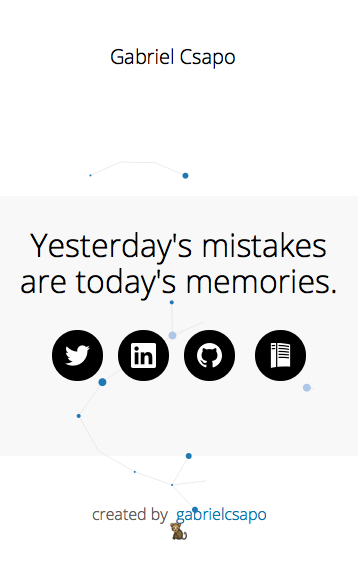
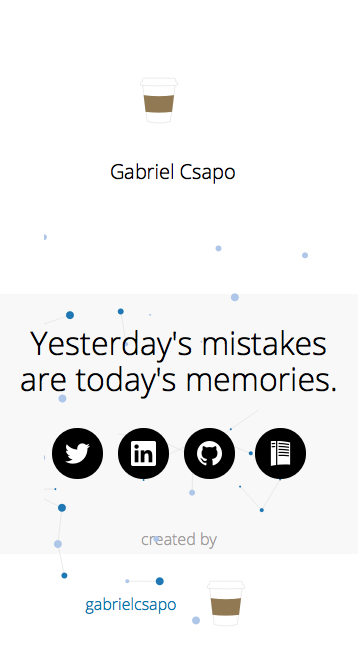
I am now a coffee cup, #spiritobject

diff --git a/index.html b/index.html
@@ -528,4 +528,4 @@ svg.directed-graph {
         height: 240px !important;
     }
 }
-</style></head></html><body><div class="navbar navbar-center"><div class="container"><div class="navbar-title"><span class="text-black" style="font-size:20px;font-weight:300;">Gabriel Csapo</span></div></div></div><div class="full-screen" style="position:relative;"><div class="text-center" style="width:100%;position: absolute;top: 50%;transform: translateY(-50%);"><div class="grid"><div class="col-1-12"></div><div class="col-10-12"><div class="quote-container" style="background-color: rgba(238, 238, 238, 0.44);padding: 10px;margin: auto;position: absolute;top: 0;left: 0;bottom: 0;right: 0;height: 170px;"><svg class="directed-graph"></svg><h1 class="text-black" style="font-weight:100;">Yesterday's mistakes are today's memories.</h1><div><a class="btn btn-black tooltip-top" href="https://twitter.com/gabriel_csapo" target="_blank" style="margin-right:5px;" data-tooltip="Twitter"><svg xmlns="http://www.w3.org/2000/svg" viewBox="0 0 16 16" fill-rule="evenodd" clip-rule="evenodd" stroke-linejoin="round" stroke-miterlimit="1.414" style="width:25px;height:25px;fill: white;"><path d="M16 3.038c-.59.26-1.22.437-1.885.517.677-.407 1.198-1.05 1.443-1.816-.634.375-1.337.648-2.085.795-.598-.638-1.45-1.036-2.396-1.036-1.812 0-3.282 1.468-3.282 3.28 0 .258.03.51.085.75C5.152 5.39 2.733 4.084 1.114 2.1.83 2.583.67 3.147.67 3.75c0 1.14.58 2.143 1.46 2.732-.538-.017-1.045-.165-1.487-.41v.04c0 1.59 1.13 2.918 2.633 3.22-.276.074-.566.114-.865.114-.21 0-.416-.02-.617-.058.418 1.304 1.63 2.253 3.067 2.28-1.124.88-2.54 1.404-4.077 1.404-.265 0-.526-.015-.783-.045 1.453.93 3.178 1.474 5.032 1.474 6.038 0 9.34-5 9.34-9.338 0-.143-.004-.284-.01-.425.64-.463 1.198-1.04 1.638-1.7z" fill-rule="nonzero"></path></svg></a><a class="btn btn-black tooltip-top" href="https://www.linkedin.com/in/gabrielcsapo" target="_blank" style="margin-right:5px;" data-tooltip="Linkedin"><svg xmlns="http://www.w3.org/2000/svg" viewBox="0 0 16 16" fill-rule="evenodd" clip-rule="evenodd" stroke-linejoin="round" stroke-miterlimit="1.414" style="width:25px;height:25px;fill: white;"><path d="M13.632 13.635h-2.37V9.922c0-.886-.018-2.025-1.234-2.025-1.235 0-1.424.964-1.424 1.96v3.778h-2.37V6H8.51V7.04h.03c.318-.6 1.092-1.233 2.247-1.233 2.4 0 2.845 1.58 2.845 3.637v4.188zM3.558 4.955c-.762 0-1.376-.617-1.376-1.377 0-.758.614-1.375 1.376-1.375.76 0 1.376.617 1.376 1.375 0 .76-.617 1.377-1.376 1.377zm1.188 8.68H2.37V6h2.376v7.635zM14.816 0H1.18C.528 0 0 .516 0 1.153v13.694C0 15.484.528 16 1.18 16h13.635c.652 0 1.185-.516 1.185-1.153V1.153C16 .516 15.467 0 14.815 0z" fill-rule="nonzero"></path></svg></a><a class="btn btn-black tooltip-top" href="https://www.github.com/gabrielcsapo" target="_blank" data-tooltip="Github"><svg xmlns="http://www.w3.org/2000/svg" viewBox="0 0 16 16" fill-rule="evenodd" clip-rule="evenodd" stroke-linejoin="round" stroke-miterlimit="1.414" style="width:25px;height:25px;fill: white;"><path d="M8 0C3.58 0 0 3.582 0 8c0 3.535 2.292 6.533 5.47 7.59.4.075.547-.172.547-.385 0-.19-.007-.693-.01-1.36-2.226.483-2.695-1.073-2.695-1.073-.364-.924-.89-1.17-.89-1.17-.725-.496.056-.486.056-.486.803.056 1.225.824 1.225.824.714 1.223 1.873.87 2.33.665.072-.517.278-.87.507-1.07-1.777-.2-3.644-.888-3.644-3.953 0-.873.31-1.587.823-2.147-.083-.202-.358-1.015.077-2.117 0 0 .672-.215 2.2.82.638-.178 1.323-.266 2.003-.27.68.004 1.364.092 2.003.27 1.527-1.035 2.198-.82 2.198-.82.437 1.102.163 1.915.08 2.117.513.56.823 1.274.823 2.147 0 3.073-1.87 3.75-3.653 3.947.287.246.543.735.543 1.48 0 1.07-.01 1.933-.01 2.195 0 .215.144.463.55.385C13.71 14.53 16 11.534 16 8c0-4.418-3.582-8-8-8"></path></svg></a><a class="btn btn-black tooltip-top" href="assets/resume_summer_2016.pdf" data-tooltip="Resume"><svg xmlns="http://www.w3.org/2000/svg" viewBox="0 0 16 16" fill-rule="evenodd" clip-rule="evenodd" stroke-linejoin="round" stroke-miterlimit="1.414" style="width:25px;height:25px;fill: white;"><path d="M1.837 15.955l.443-.095c.138-.03.275-.057.413-.084.212-.042.424-.083.637-.122.16-.03.32-.057.48-.085l.037-.007c.166-.028.332-.056.498-.082.27-.04.54-.08.81-.118V-.045H5.127c-.42.002-.837.01-1.256.024-.466.015-.933.04-1.398.073-.202.014-.404.03-.606.047l-.026.002h-.005v15.853zM5.94-.04v15.3c.574-.066 1.147-.122 1.722-.165 1.414-.107 2.833-.14 4.25-.1.752.022 1.502.065 2.25.128V.953C13.493.8 12.82.665 12.143.548 10.828.32 9.504.16 8.176.06c-.744-.054-1.49-.088-2.236-.1zm7.177 9.868l-.03-.003-.374-.04c-.933-.097-1.87-.162-2.806-.194-.938-.03-1.877-.028-2.815.005h-.03c-.03-.002-.06-.005-.09-.014-.067-.018-.13-.055-.178-.106-.084-.088-.123-.212-.104-.333.006-.038.02-.077.036-.113.018-.036.042-.07.07-.098.028-.03.06-.054.095-.073.037-.02.075-.033.115-.04.026-.006.033-.006.06-.007.127-.005.254-.01.38-.013.926-.024 1.85-.02 2.775.02.956.038 1.91.11 2.86.216l.095.01c.03.006.06.01.088.02.066.025.126.067.17.12.026.032.047.067.062.104.015.037.025.077.028.117.01.11-.03.222-.108.303-.028.03-.06.053-.095.073-.036.02-.074.033-.113.04-.026.006-.033.005-.06.008h-.03zm.024-1.808c-.03 0-.03 0-.06-.004-.124-.016-.248-.03-.373-.047-.933-.112-1.87-.193-2.807-.24-.937-.047-1.876-.06-2.814-.04l-.03-.002c-.03-.003-.06-.007-.09-.015-.067-.02-.128-.058-.176-.11-.027-.03-.05-.063-.067-.1-.052-.11-.05-.24.006-.35.018-.034.042-.067.07-.095.03-.03.06-.053.097-.07.036-.02.074-.033.114-.04.027-.004.034-.004.06-.005l.383-.007c.925-.01 1.85.01 2.773.064.956.054 1.91.144 2.86.264l.095.012c.028.005.035.005.06.013.068.018.13.056.178.108.076.08.115.193.105.304-.004.04-.014.08-.03.116-.015.037-.036.072-.062.103-.025.03-.056.058-.09.08-.034.02-.07.037-.11.047-.026.007-.033.007-.06.01l-.03.003zm-.006-1.808c-.03 0-.03 0-.06-.004l-.373-.053c-.93-.127-1.867-.223-2.806-.285-.937-.062-1.876-.09-2.814-.087h-.03c-.027-.004-.034-.004-.06-.01-.04-.01-.077-.024-.112-.045-.104-.062-.176-.17-.19-.292-.005-.04-.003-.08.004-.12.008-.04.02-.078.04-.113.02-.036.044-.068.073-.096.05-.05.114-.084.183-.1.03-.007.06-.01.09-.01h.38c.96.006 1.915.043 2.87.115.925.07 1.847.173 2.765.304l.095.014c.026.005.033.005.058.013.04.012.075.03.108.053.033.022.063.05.088.082.024.032.044.067.058.105.038.104.03.223-.022.32-.02.036-.043.07-.072.097-.05.05-.114.085-.182.1-.026.008-.033.008-.06.01l-.03.002zm-.006-1.808c-.03 0-.03 0-.06-.005l-.374-.06c-.93-.142-1.867-.253-2.807-.33-.936-.078-1.874-.12-2.814-.134h-.03l-.06-.01c-.038-.01-.076-.027-.11-.048-.034-.02-.065-.047-.092-.077-.025-.03-.047-.064-.063-.1-.015-.038-.026-.077-.03-.117-.012-.12.034-.244.122-.327.05-.048.115-.082.184-.097.03-.008.06-.01.09-.01.127 0 .254.004.382.006.957.022 1.914.075 2.868.163.926.084 1.848.2 2.765.348l.094.015c.026.005.033.006.058.014.04.013.075.03.108.054.032.025.06.053.085.085.067.09.093.205.07.314-.007.038-.02.076-.04.11-.02.037-.044.07-.073.096-.052.05-.116.083-.184.1-.026.005-.033.004-.06.007h-.03zm-10.442-.34c-.063 0-.125-.013-.18-.042-.13-.063-.214-.195-.22-.337 0-.037.003-.074.012-.11.01-.045.03-.088.057-.127.03-.043.067-.08.11-.108.05-.032.104-.05.16-.06l.316-.03c.434-.038.867-.07 1.3-.095h.033c.063.002.124.016.18.047.125.068.205.203.205.345 0 .037-.005.073-.015.108-.013.045-.034.088-.062.126-.03.043-.07.078-.114.105-.05.03-.105.047-.163.053-.07.006-.14.01-.212.014-.097.006-.196.012-.294.02-.26.018-.523.04-.784.062l-.196.018c-.044.004-.087.01-.13.01zm10.436-1.468l-.06-.006-.374-.066c-.93-.157-1.867-.284-2.807-.377-.935-.092-1.873-.15-2.813-.18h-.03c-.027-.004-.034-.005-.06-.012-.038-.01-.076-.026-.11-.048-.033-.02-.064-.048-.09-.08-.078-.092-.11-.22-.082-.338.01-.04.023-.078.044-.113.02-.034.044-.066.074-.093.052-.047.117-.08.186-.094.03-.006.06-.007.09-.008l.382.013c.926.036 1.85.102 2.773.2.958.1 1.912.237 2.86.403l.095.017c.026.006.033.007.058.015.038.013.074.032.107.056.09.066.147.17.158.28.003.04 0 .08-.008.12-.008.04-.023.077-.043.112-.02.035-.045.067-.075.094-.052.048-.116.08-.185.095-.027.006-.033.006-.06.008h-.03zM2.68 2.084c-.058 0-.114-.012-.167-.037-.047-.022-.09-.053-.125-.092-.03-.035-.057-.075-.074-.12-.013-.033-.022-.068-.026-.105-.014-.142.052-.284.17-.364.053-.036.112-.057.174-.065.105-.01.21-.016.315-.024.434-.032.867-.056 1.3-.075h.032c.062.004.123.02.178.05.124.072.202.208.2.35 0 .037-.007.073-.017.108-.013.045-.035.087-.063.125-.032.04-.072.076-.117.102-.05.03-.105.045-.163.05-.07.005-.142.007-.213.01l-.294.015c-.262.014-.523.03-.785.05l-.196.015c-.044.003-.087.008-.13.01z"></path></svg></a></div></div></div><div class="col-1-12"></div></div></div></div><div class="navbar navbar-center" style="position:fixed;bottom:0;"><div class="container text-center">created by &nbsp;<a href="https://www.github.com/gabrielcsapo" target="_blank">gabrielcsapo 🐒</a></div></div><script charset="utf-8" src="./public/build.js"></script></body>
+</style></head></html><body><div class="navbar navbar-center"><div class="container"><div class="navbar-title"><img style="vertical-align:middle;margin-bottom: 15px;" width="100px" src="./public/me.svg"/><span class="text-black" style="font-size:20px;font-weight:300;">Gabriel Csapo</span></div></div></div><div class="full-screen" style="position:relative;"><div class="text-center" style="width:100%;position: absolute;top: 50%;transform: translateY(-50%);"><div class="grid"><div class="col-1-12"></div><div class="col-10-12"><div class="quote-container" style="background-color: rgba(238, 238, 238, 0.44);padding: 10px;margin: auto;position: absolute;top: 0;left: 0;bottom: 0;right: 0;height: 170px;"><svg class="directed-graph"></svg><h1 class="text-black" style="font-weight:100;">Yesterday's mistakes are today's memories.</h1><div><a class="btn btn-black tooltip-top" href="https://twitter.com/gabriel_csapo" target="_blank" style="margin-right:5px;" data-tooltip="Twitter"><svg xmlns="http://www.w3.org/2000/svg" viewBox="0 0 16 16" fill-rule="evenodd" clip-rule="evenodd" stroke-linejoin="round" stroke-miterlimit="1.414" style="width:25px;height:25px;fill: white;"><path d="M16 3.038c-.59.26-1.22.437-1.885.517.677-.407 1.198-1.05 1.443-1.816-.634.375-1.337.648-2.085.795-.598-.638-1.45-1.036-2.396-1.036-1.812 0-3.282 1.468-3.282 3.28 0 .258.03.51.085.75C5.152 5.39 2.733 4.084 1.114 2.1.83 2.583.67 3.147.67 3.75c0 1.14.58 2.143 1.46 2.732-.538-.017-1.045-.165-1.487-.41v.04c0 1.59 1.13 2.918 2.633 3.22-.276.074-.566.114-.865.114-.21 0-.416-.02-.617-.058.418 1.304 1.63 2.253 3.067 2.28-1.124.88-2.54 1.404-4.077 1.404-.265 0-.526-.015-.783-.045 1.453.93 3.178 1.474 5.032 1.474 6.038 0 9.34-5 9.34-9.338 0-.143-.004-.284-.01-.425.64-.463 1.198-1.04 1.638-1.7z" fill-rule="nonzero"></path></svg></a><a class="btn btn-black tooltip-top" href="https://www.linkedin.com/in/gabrielcsapo" target="_blank" style="margin-right:5px;" data-tooltip="Linkedin"><svg xmlns="http://www.w3.org/2000/svg" viewBox="0 0 16 16" fill-rule="evenodd" clip-rule="evenodd" stroke-linejoin="round" stroke-miterlimit="1.414" style="width:25px;height:25px;fill: white;"><path d="M13.632 13.635h-2.37V9.922c0-.886-.018-2.025-1.234-2.025-1.235 0-1.424.964-1.424 1.96v3.778h-2.37V6H8.51V7.04h.03c.318-.6 1.092-1.233 2.247-1.233 2.4 0 2.845 1.58 2.845 3.637v4.188zM3.558 4.955c-.762 0-1.376-.617-1.376-1.377 0-.758.614-1.375 1.376-1.375.76 0 1.376.617 1.376 1.375 0 .76-.617 1.377-1.376 1.377zm1.188 8.68H2.37V6h2.376v7.635zM14.816 0H1.18C.528 0 0 .516 0 1.153v13.694C0 15.484.528 16 1.18 16h13.635c.652 0 1.185-.516 1.185-1.153V1.153C16 .516 15.467 0 14.815 0z" fill-rule="nonzero"></path></svg></a><a class="btn btn-black tooltip-top" href="https://www.github.com/gabrielcsapo" target="_blank" data-tooltip="Github"><svg xmlns="http://www.w3.org/2000/svg" viewBox="0 0 16 16" fill-rule="evenodd" clip-rule="evenodd" stroke-linejoin="round" stroke-miterlimit="1.414" style="width:25px;height:25px;fill: white;"><path d="M8 0C3.58 0 0 3.582 0 8c0 3.535 2.292 6.533 5.47 7.59.4.075.547-.172.547-.385 0-.19-.007-.693-.01-1.36-2.226.483-2.695-1.073-2.695-1.073-.364-.924-.89-1.17-.89-1.17-.725-.496.056-.486.056-.486.803.056 1.225.824 1.225.824.714 1.223 1.873.87 2.33.665.072-.517.278-.87.507-1.07-1.777-.2-3.644-.888-3.644-3.953 0-.873.31-1.587.823-2.147-.083-.202-.358-1.015.077-2.117 0 0 .672-.215 2.2.82.638-.178 1.323-.266 2.003-.27.68.004 1.364.092 2.003.27 1.527-1.035 2.198-.82 2.198-.82.437 1.102.163 1.915.08 2.117.513.56.823 1.274.823 2.147 0 3.073-1.87 3.75-3.653 3.947.287.246.543.735.543 1.48 0 1.07-.01 1.933-.01 2.195 0 .215.144.463.55.385C13.71 14.53 16 11.534 16 8c0-4.418-3.582-8-8-8"></path></svg></a><a class="btn btn-black tooltip-top" href="assets/resume_summer_2016.pdf" data-tooltip="Resume"><svg xmlns="http://www.w3.org/2000/svg" viewBox="0 0 16 16" fill-rule="evenodd" clip-rule="evenodd" stroke-linejoin="round" stroke-miterlimit="1.414" style="width:25px;height:25px;fill: white;"><path d="M1.837 15.955l.443-.095c.138-.03.275-.057.413-.084.212-.042.424-.083.637-.122.16-.03.32-.057.48-.085l.037-.007c.166-.028.332-.056.498-.082.27-.04.54-.08.81-.118V-.045H5.127c-.42.002-.837.01-1.256.024-.466.015-.933.04-1.398.073-.202.014-.404.03-.606.047l-.026.002h-.005v15.853zM5.94-.04v15.3c.574-.066 1.147-.122 1.722-.165 1.414-.107 2.833-.14 4.25-.1.752.022 1.502.065 2.25.128V.953C13.493.8 12.82.665 12.143.548 10.828.32 9.504.16 8.176.06c-.744-.054-1.49-.088-2.236-.1zm7.177 9.868l-.03-.003-.374-.04c-.933-.097-1.87-.162-2.806-.194-.938-.03-1.877-.028-2.815.005h-.03c-.03-.002-.06-.005-.09-.014-.067-.018-.13-.055-.178-.106-.084-.088-.123-.212-.104-.333.006-.038.02-.077.036-.113.018-.036.042-.07.07-.098.028-.03.06-.054.095-.073.037-.02.075-.033.115-.04.026-.006.033-.006.06-.007.127-.005.254-.01.38-.013.926-.024 1.85-.02 2.775.02.956.038 1.91.11 2.86.216l.095.01c.03.006.06.01.088.02.066.025.126.067.17.12.026.032.047.067.062.104.015.037.025.077.028.117.01.11-.03.222-.108.303-.028.03-.06.053-.095.073-.036.02-.074.033-.113.04-.026.006-.033.005-.06.008h-.03zm.024-1.808c-.03 0-.03 0-.06-.004-.124-.016-.248-.03-.373-.047-.933-.112-1.87-.193-2.807-.24-.937-.047-1.876-.06-2.814-.04l-.03-.002c-.03-.003-.06-.007-.09-.015-.067-.02-.128-.058-.176-.11-.027-.03-.05-.063-.067-.1-.052-.11-.05-.24.006-.35.018-.034.042-.067.07-.095.03-.03.06-.053.097-.07.036-.02.074-.033.114-.04.027-.004.034-.004.06-.005l.383-.007c.925-.01 1.85.01 2.773.064.956.054 1.91.144 2.86.264l.095.012c.028.005.035.005.06.013.068.018.13.056.178.108.076.08.115.193.105.304-.004.04-.014.08-.03.116-.015.037-.036.072-.062.103-.025.03-.056.058-.09.08-.034.02-.07.037-.11.047-.026.007-.033.007-.06.01l-.03.003zm-.006-1.808c-.03 0-.03 0-.06-.004l-.373-.053c-.93-.127-1.867-.223-2.806-.285-.937-.062-1.876-.09-2.814-.087h-.03c-.027-.004-.034-.004-.06-.01-.04-.01-.077-.024-.112-.045-.104-.062-.176-.17-.19-.292-.005-.04-.003-.08.004-.12.008-.04.02-.078.04-.113.02-.036.044-.068.073-.096.05-.05.114-.084.183-.1.03-.007.06-.01.09-.01h.38c.96.006 1.915.043 2.87.115.925.07 1.847.173 2.765.304l.095.014c.026.005.033.005.058.013.04.012.075.03.108.053.033.022.063.05.088.082.024.032.044.067.058.105.038.104.03.223-.022.32-.02.036-.043.07-.072.097-.05.05-.114.085-.182.1-.026.008-.033.008-.06.01l-.03.002zm-.006-1.808c-.03 0-.03 0-.06-.005l-.374-.06c-.93-.142-1.867-.253-2.807-.33-.936-.078-1.874-.12-2.814-.134h-.03l-.06-.01c-.038-.01-.076-.027-.11-.048-.034-.02-.065-.047-.092-.077-.025-.03-.047-.064-.063-.1-.015-.038-.026-.077-.03-.117-.012-.12.034-.244.122-.327.05-.048.115-.082.184-.097.03-.008.06-.01.09-.01.127 0 .254.004.382.006.957.022 1.914.075 2.868.163.926.084 1.848.2 2.765.348l.094.015c.026.005.033.006.058.014.04.013.075.03.108.054.032.025.06.053.085.085.067.09.093.205.07.314-.007.038-.02.076-.04.11-.02.037-.044.07-.073.096-.052.05-.116.083-.184.1-.026.005-.033.004-.06.007h-.03zm-10.442-.34c-.063 0-.125-.013-.18-.042-.13-.063-.214-.195-.22-.337 0-.037.003-.074.012-.11.01-.045.03-.088.057-.127.03-.043.067-.08.11-.108.05-.032.104-.05.16-.06l.316-.03c.434-.038.867-.07 1.3-.095h.033c.063.002.124.016.18.047.125.068.205.203.205.345 0 .037-.005.073-.015.108-.013.045-.034.088-.062.126-.03.043-.07.078-.114.105-.05.03-.105.047-.163.053-.07.006-.14.01-.212.014-.097.006-.196.012-.294.02-.26.018-.523.04-.784.062l-.196.018c-.044.004-.087.01-.13.01zm10.436-1.468l-.06-.006-.374-.066c-.93-.157-1.867-.284-2.807-.377-.935-.092-1.873-.15-2.813-.18h-.03c-.027-.004-.034-.005-.06-.012-.038-.01-.076-.026-.11-.048-.033-.02-.064-.048-.09-.08-.078-.092-.11-.22-.082-.338.01-.04.023-.078.044-.113.02-.034.044-.066.074-.093.052-.047.117-.08.186-.094.03-.006.06-.007.09-.008l.382.013c.926.036 1.85.102 2.773.2.958.1 1.912.237 2.86.403l.095.017c.026.006.033.007.058.015.038.013.074.032.107.056.09.066.147.17.158.28.003.04 0 .08-.008.12-.008.04-.023.077-.043.112-.02.035-.045.067-.075.094-.052.048-.116.08-.185.095-.027.006-.033.006-.06.008h-.03zM2.68 2.084c-.058 0-.114-.012-.167-.037-.047-.022-.09-.053-.125-.092-.03-.035-.057-.075-.074-.12-.013-.033-.022-.068-.026-.105-.014-.142.052-.284.17-.364.053-.036.112-.057.174-.065.105-.01.21-.016.315-.024.434-.032.867-.056 1.3-.075h.032c.062.004.123.02.178.05.124.072.202.208.2.35 0 .037-.007.073-.017.108-.013.045-.035.087-.063.125-.032.04-.072.076-.117.102-.05.03-.105.045-.163.05-.07.005-.142.007-.213.01l-.294.015c-.262.014-.523.03-.785.05l-.196.015c-.044.003-.087.008-.13.01z"></path></svg></a></div></div></div><div class="col-1-12"></div></div></div></div><div class="navbar navbar-center" style="position:fixed;bottom:0;"><div class="container text-center">created by &nbsp;<a href="https://www.github.com/gabrielcsapo" target="_blank">gabrielcsapo<img style="display:inline-block;vertical-align:middle;margin-bottom: 15px;" width="100px" src="./public/me.svg"/></a></div></div><script charset="utf-8" src="./public/build.js"></script></body>
